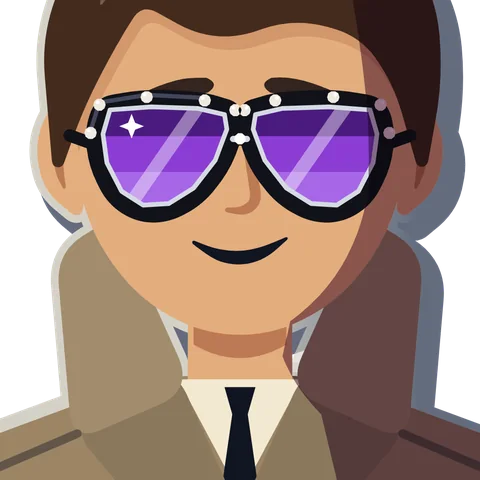
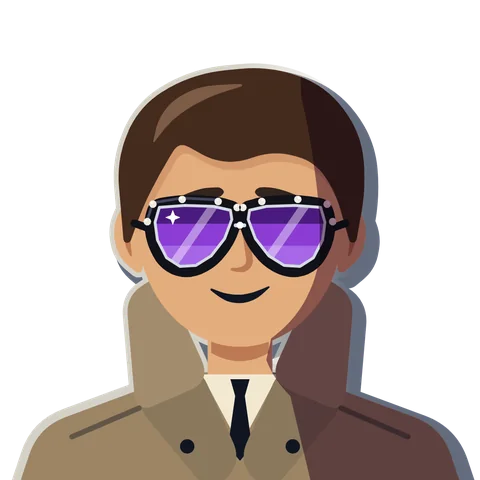
Archive "See it worn": the whole agent, nothing over the item (QA Nov 11: Incognito #33 cut the top of the head at 1280; Nom de Plume #10's brim ran under "The item" at 390).
- The worn pictures of hats, glasses and outfits are the whole bust now (scripts/archive-item-art/bust.mjs CROP: the
  app's tight hat / eyewear / outfit crops cut the head and the crown in the site's square); 28 re-drawn (hats,
  glasses, outfits, Him and Her); accessories were already the bust.
- "The item" sits top right (where "See it worn" sits on the front), Him | Her bottom right: clear of a hat's plume,
  the head and the Spy Cat (bottom left).
Checked: build, tsc, eslint; headless: Incognito #33 at 1280, Nom de Plume #10 / #9 at 390 (en, ru), Diplomatic
Immunity #24 at 1280 ru, Spy Cat #19 at 390: whole head and item, no chip over either.

diff --git a/src/pages/archive/displayCase.module.css b/src/pages/archive/displayCase.module.css
@@ -44,9 +44,9 @@
 .chip svg { width: 1.15em; height: 1.15em; fill: none; stroke: #c9a24a; stroke-width: 2.2; stroke-linecap: round; }
 .chip:hover, .chip:focus-visible { border-color: #c9a24a; }
 .chipSee { right: 12%; top: 12%; }
-.chipBack { left: 12%; top: 12%; }
+.chipBack { right: 12%; top: 12%; }
 .toggle {
-  position: absolute; left: 50%; bottom: 12%; transform: translateX(-50%); display: flex; padding: 3px;
+  position: absolute; right: 12%; bottom: 12%; display: flex; padding: 3px;
   background: rgba(16, 21, 34, 0.84); border: 1px solid rgba(201, 162, 74, 0.6); border-radius: 999px;
 }
 .toggle button { padding: 0.55em 1.1em; border: 0; border-radius: 999px; background: transparent; color: #f2e9d0; cursor: pointer; }
